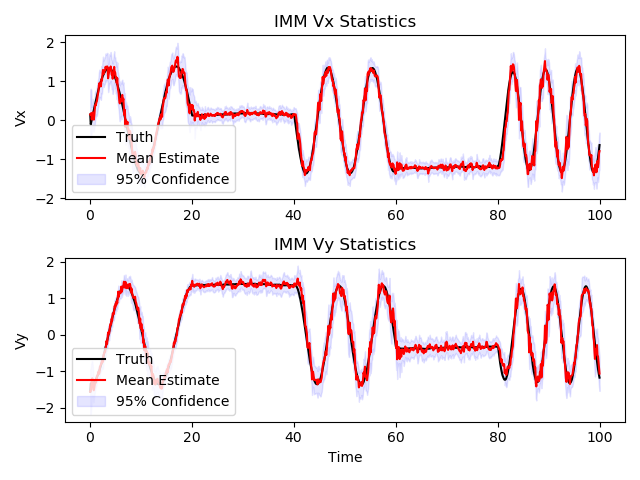
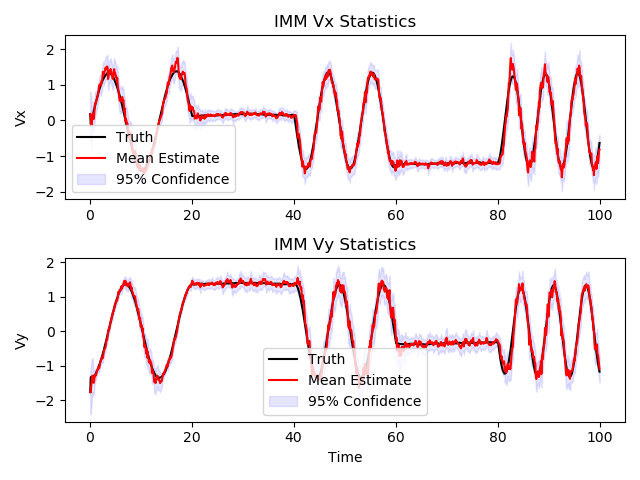
ukf ekf imm

diff --git a/imm_synthetic.py b/imm_synthetic.py
@@ -48,13 +48,24 @@ sensor_model = RangeBearing(sigma_r, sigma_th, state_dim=7)
 filters = [
     UKF(CV_7dim(sigma_q), sensor_model),
     UKF(CT_7dim(sigma_a, sigma_w=sigma_w), sensor_model),
+    UKF(CA_7dim(sigma=sigma_a), sensor_model),
+
+    EKF(CV_7dim(sigma_q), sensor_model),
+    EKF(CT_7dim(sigma_a, sigma_w=sigma_w), sensor_model),
+    EKF(CA_7dim(sigma=sigma_a), sensor_model)
 ]
 
 individual_filters = [
     UKF(CV_7dim(sigma_q), sensor_model),
     UKF(CT_7dim(sigma_a, sigma_w=sigma_w), sensor_model),
+    UKF(CA_7dim(sigma=sigma_a), sensor_model),
+
+    EKF(CV_7dim(sigma_q), sensor_model),
+    EKF(CT_7dim(sigma_a, sigma_w=sigma_w), sensor_model),
+    EKF(CA_7dim(sigma=sigma_a), sensor_model)
 ]
-filter_names = ['CV', 'CT']
+
+filter_names = [filt.__class__.__name__ + filt.dyn_model.__class__.__name__ for filt in filters]
 
 n_filt = len(filters)
 if data == 'synthetic':
@@ -96,10 +107,7 @@ init_cov1, init_cov2 = init_covs[0], init_covs[1]
 
 init_weights = np.ones((n_filt, 1))/n_filt
 
-init_states = [
-    GaussState(init_mean1, init_cov1),
-    GaussState(init_mean2, init_cov2),
-    ]
+init_states = [GaussState(init_mean, init_cov) for init_mean, init_cov in zip(init_means, init_covs)]
 
 immstate = GaussianMixture(
     init_weights, init_states
@@ -107,9 +115,14 @@ immstate = GaussianMixture(
 
 ##High probability that you stay in state
 alpha = 0.95
-PI = np.array([[alpha, 1-alpha],
-               [1-alpha, alpha]])
-
+def generate_pi():
+    Pi = np.eye(n_filt)*alpha
+    for i in range(n_filt):
+        for j in range(n_filt):
+            if i != j:
+                Pi[i, j] = (1-alpha)/(n_filt-1)
+    return Pi
+PI = generate_pi()
 # PI = np.array([[alpha, (1-alpha)],
 # [alpha, (1-alpha)]
 # ])
@@ -201,9 +214,9 @@ plot_statistics(times, mus.squeeze(), Sigmas.squeeze(), X.squeeze(), zs.squeeze(
 mus_ind['imm'] = mus.squeeze()
 Sigmas_ind['imm'] = Sigmas.squeeze()
 
-for idx, flt in enumerate(individual_filters):
-	savestr=filter_names[idx]
-	plot_statistics(times, mus_ind[flt], Sigmas_ind[flt], X.squeeze(), zs.squeeze(), ['Px', 'Py', 'Vx', 'Vy', 'Ax', 'Ay', 'Turn Rate'], savestr=savestr, meas_states=None)
+# for idx, flt in enumerate(individual_filters):
+# 	savestr=filter_names[idx]
+# 	plot_statistics(times, mus_ind[flt], Sigmas_ind[flt], X.squeeze(), zs.squeeze(), ['Px', 'Py', 'Vx', 'Vy', 'Ax', 'Ay', 'Turn Rate'], savestr=savestr, meas_states=None)
 
 filter_names.append('IMM')
 plot_errors(times, mus_ind, Sigmas_ind, X.squeeze(), zs.squeeze(), filter_names, 'imm_errors', switches=switches*dt)

diff --git a/filters/UKF.py b/filters/UKF.py
@@ -21,7 +21,7 @@ class UKF():
         try:
             cov_sqrt = np.linalg.cholesky(cov)
         except Exception as e:
-            print("non pos def")
+            #print("non pos def")
             cov_sqrt = np.linalg.cholesky(cov+np.eye(cov.shape[0])*1e-30)
 
         for i in range(self.n):
